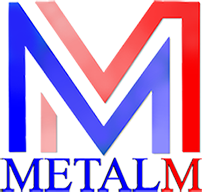
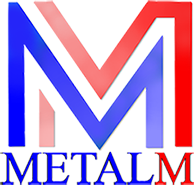
30.11

diff --git a/index.html b/index.html
@@ -28,7 +28,7 @@
   <header id="header" class="fixed-top">
     <div class="container d-flex">
       <div class="logo mr-auto">
-        <h1 class="text-light"><a href="index.html"><span>Metal-M</span></a></h1>
+      <a href="index.html">   <img src="assets/img/hero-img11.png" class="img-fluid" alt=""></a>
       </div>
       <nav class="nav-menu d-none d-lg-block">
         <ul>
@@ -64,13 +64,13 @@
             <div class="col-lg-3 col-md-6">
               <div class="footer-info">
                 <h3><b>Metal-M</b></h3>
-                <h5>Obrada metala i izrada metalne galanterije</h5>
+                <h5>Obrada metala i izrada metalne galanterije</h5><br>
               </div>
             </div>
     <br> <br>
             <div class="col-lg-4 col-md-6 footer-links">
               <strong>Telefon:</strong><br>065 / 514 - 517<br> 051 / 381 - 184 <br><br>
-              <strong>Email:</strong>  info.metalmbl@gmail.com<br>
+              <strong>Email:</strong>  info.metalmbl@gmail.com<br><br>
               <p></p>
             </div>
             <br> <br>
@@ -78,7 +78,8 @@
               <div class="footer-info">
                 <h4><b>Adresa:</b></h4>
                 Đulija 16<br>
-                 78000, Banja Luka
+                 78000, Banja Luka<br>
+                 <a href="https://www.google.com/maps/place/Metal-M+-+obrada+metala,+izrada+metalne+galanterije/@44.813552,17.1966364,15z/data=!4m5!3m4!1s0x0:0xdbb6d1e7d0c92289!8m2!3d44.813552!4d17.1966364"> Lokacija na Google Maps</a><br><br>
               </div>
             </div>
             <br> <br>
